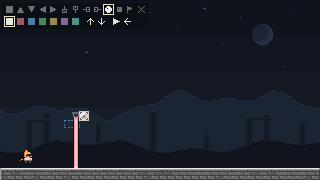
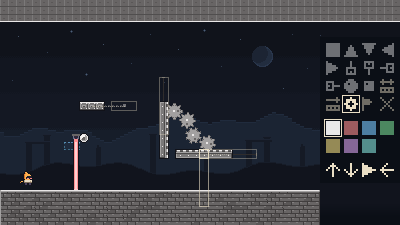
Show the fixed editor panel in the wiki screenshot

diff --git a/Documentation/wiki/index.html b/Documentation/wiki/index.html
@@ -488,7 +488,7 @@
     <li>面板上的上箭頭匯入、下箭頭匯出 JSON。網頁版會下載 <code>phase-custom-map.json</code> 或開啟檔案選擇器，也就是網頁版的匯出 JSON／匯入 JSON；在 Unity Editor 中則使用剪貼簿。</li>
   </ol>
   <figure class="shot"><img src="images/level-select.png" width="320" height="180" loading="lazy" alt="遊戲內選關：4×3 格，以像素數字標示第 1 到 12 關。"><figcaption>遊戲內選關。直接選關會從該房間檢查點重新開始。</figcaption></figure>
-  <figure class="shot"><img src="images/game-editor.png" width="320" height="180" loading="lazy" alt="遊戲內編輯器：左上兩排像素圖示，上排是地板、尖刺、雷射、水晶、出生點與橡皮擦，下排是七色、匯入、匯出、試玩與返回；場景中有藍色地形、紅色向下雷射與白色跳躍水晶。"><figcaption>遊戲內編輯器的實際畫面。</figcaption></figure>
+  <figure class="shot"><img src="images/game-editor.png" width="400" height="225" loading="lazy" alt="遊戲內編輯器：地圖右側固定的像素圖示面板，上面四排是地板、尖刺、雷射、水晶、平台、齒輪、出生點與橡皮擦，接著是七色，最下排是匯入、匯出、試玩與返回；場景中有藍色地形、紅色向下雷射、白色跳躍水晶、平台與齒輪。"><figcaption>遊戲內編輯器的實際畫面。</figcaption></figure>
   <p><strong>草稿只存在目前裝置</strong>（Unity PlayerPrefs <code>phase.editor.v1</code>；網頁版存在瀏覽器的網站資料），沒有雲端同步。換裝置或清除網站資料前先匯出。試玩不會改寫 Unity 場景或正式關卡。</p>
   <p>目前可編<strong>靜態地形、四向尖刺、四向雷射、跳躍／衝刺水晶與出生點</strong>，範圍 40×22 格（320×176 像素）。移動平台、齒輪與房間串接需使用 Unity。</p>
 
